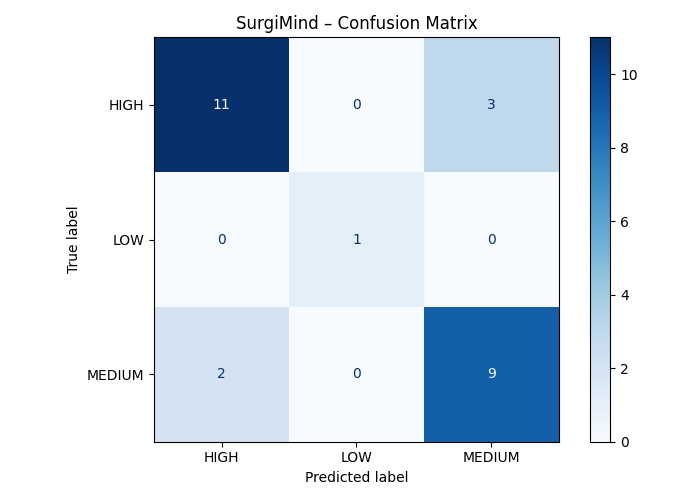
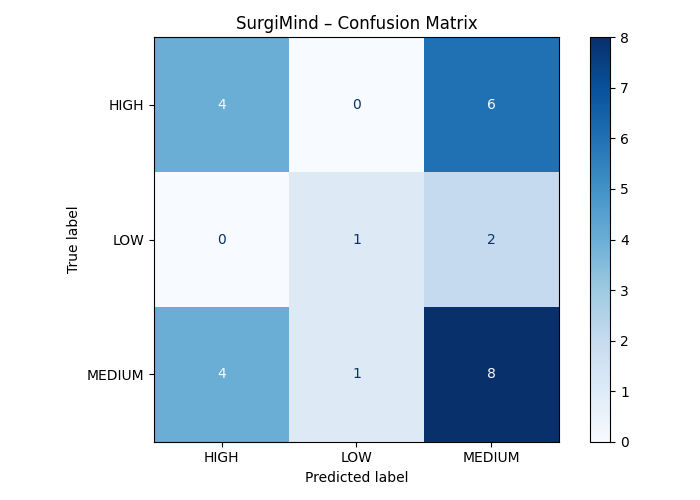
Updated code

diff --git a/frontend/app_body.py b/frontend/app_body.py
@@ -8,6 +8,18 @@ import time
 import json
 import base64
 import os
+import io
+
+from reportlab.lib.pagesizes import letter, landscape
+from reportlab.lib import colors as pdf_colors
+from reportlab.lib.styles import getSampleStyleSheet, ParagraphStyle
+from reportlab.platypus import (
+    SimpleDocTemplate,
+    Paragraph,
+    Spacer,
+    Table,
+    TableStyle
+)
 
 st.set_page_config(
     page_title="SurgiMind",
@@ -279,6 +291,22 @@ html, body, [data-testid="stAppViewContainer"] {
 ::-webkit-scrollbar { width: 6px; }
 ::-webkit-scrollbar-thumb { background: #C5D5EA; border-radius: 3px; }
 
+/* ===== Pre-op Checklist Text ===== */
+
+[data-testid="stCheckbox"] label {
+    color: #0D2B5E !important;
+    font-size: 15px !important;
+    font-weight: 600 !important;
+}
+
+[data-testid="stCheckbox"] span {
+    color: #0D2B5E !important;
+}
+
+[data-testid="stCheckbox"] input {
+    accent-color: #1CB5A3 !important;
+}
+
 /* ==========================================================
    SURGIMIND AUTH SCREEN
    ========================================================== */
@@ -399,6 +427,12 @@ html, body, [data-testid="stAppViewContainer"] {
     margin-bottom: 30px;
 }
 
+/* Force all checkbox text dark */
+[data-testid="stCheckbox"] * {
+    color: #0D2B5E !important;
+    font-weight: 600 !important;
+}
+
 </style>
 """
 
@@ -436,6 +470,99 @@ def get_base64_image(filename):
 # =============================================================================
 # HELPER FUNCTIONS
 # =============================================================================
+
+
+
+def generate_professional_pdf(report_data):
+    """Converts SurgiMind AI JSON output into a professional medical PDF."""
+    buffer = io.BytesIO()
+    doc = SimpleDocTemplate(buffer, pagesize=landscape(letter), rightMargin=50, leftMargin=50, topMargin=50, bottomMargin=50)
+    styles = getSampleStyleSheet()
+    
+    # ── SurgiMind Professional Styles ─────────────────────────────────────────
+    title_style = ParagraphStyle(
+    'Title',
+    parent=styles['Heading1'],
+    color=pdf_colors.HexColor("#0D2B5E")
+    )
+    section_style = ParagraphStyle('Section', parent=styles['Heading2'], color=pdf_colors.HexColor("#1CB5A3"), spaceBefore=15, spaceAfter=8, fontSize=14)
+    body_style = ParagraphStyle('Body', parent=styles['Normal'], fontSize=11, leading=14)
+    alert_style = ParagraphStyle('Alert', parent=styles['Normal'], color=pdf_colors.red, fontWeight='bold')
+
+    elements = []
+
+    # 1. Header: Brand and Patient Info
+    elements.append(Paragraph("SurgiMind AI: Surgical Risk Assessment", title_style))
+    elements.append(Paragraph(f"<b>Patient Name:</b> {report_data.get('patient_name', 'Unknown')}", body_style))
+    elements.append(Paragraph(f"<b>Risk Classification:</b> {report_data.get('risk_level', 'N/A')} (Confidence: {report_data.get('confidence', 'N/A')})", body_style))
+    elements.append(Spacer(1, 15))
+
+    # 2. AI Summary (The "Human Readable" part from Ollama)
+    elements.append(Paragraph("AI Clinical Summary", section_style))
+    elements.append(Paragraph(report_data.get('ai_summary', 'N/A'), body_style))
+
+    # 3. Clinical Impression
+    elements.append(Paragraph("Probable Diagnosis", section_style))
+    elements.append(Paragraph(report_data.get('probable_diagnosis', 'N/A'), body_style))
+
+    # 4. Red Flag Lab Alerts (Formatted as a Table)
+    if report_data.get('red_flags'):
+        elements.append(Paragraph("Critical Lab Red Flags", section_style))
+        # Table data: Header + rows from the red_flags list
+        data = [["Lab", "Clinical Reason", "Severity"]]
+        for rf in report_data['red_flags']:
+            data.append([
+            Paragraph(rf.get('lab', ''), body_style),
+            Paragraph(rf.get('reason', ''), body_style),
+            Paragraph(rf.get('severity', ''), body_style)
+            ])
+        
+        # Style the table using SurgiMind colors
+        t = Table(data, colWidths=[90, 320, 90])
+        t.setStyle(TableStyle([
+        ('BACKGROUND', (0,0), (-1,0), pdf_colors.HexColor("#0D2B5E")),
+        ('TEXTCOLOR', (0,0), (-1,0), pdf_colors.whitesmoke),
+
+        ('GRID', (0,0), (-1,-1), 0.5, pdf_colors.grey),
+
+        ('VALIGN', (0,0), (-1,-1), 'TOP'),
+
+        ('WORDWRAP', (0,0), (-1,-1), 'CJK'),
+
+        ('FONTSIZE', (0,0), (-1,-1), 9),
+
+        ('LEFTPADDING', (0,0), (-1,-1), 6),
+        ('RIGHTPADDING', (0,0), (-1,-1), 6),
+        ('TOPPADDING', (0,0), (-1,-1), 6),
+        ('BOTTOMPADDING', (0,0), (-1,-1), 6),
+        ]))
+        elements.append(t)
+
+    # 5. Contraindications & Surgical Options
+    if report_data.get('contraindications'):
+        elements.append(Paragraph("Contraindications", section_style))
+        for item in report_data['contraindications']:
+            elements.append(Paragraph(f"• {item}", body_style))
+
+    if report_data.get('surgical_options'):
+        elements.append(Paragraph("Surgical Recommendations", section_style))
+        for item in report_data['surgical_options']:
+            elements.append(Paragraph(f"• {item}", body_style))
+
+    # 6. Pre-Op Checklist (The checkbox list)
+    if report_data.get('preop_checklist'):
+        elements.append(Paragraph("Pre-Operative Action Checklist", section_style))
+        for item in report_data['preop_checklist']:
+            elements.append(Paragraph(f"[  ] {item}", body_style))
+
+    # 7. Footer (Model details)
+    elements.append(Spacer(1, 30))
+    footer_text = f"Report generated by {report_data.get('model_used', 'SurgiMind AI')} via {report_data.get('llm_backend_used', 'ollama')}"
+    elements.append(Paragraph(f"<font size='8' color='grey'>{footer_text}</font>", body_style))
+
+    doc.build(elements)
+    buffer.seek(0)
+    return buffer
 
 def get_risk_colors(level):
     level = level.upper()
@@ -847,7 +974,7 @@ else:
     risk     = report.get("risk_level","MEDIUM").upper()
     conf_str = report.get("confidence","N/A")
     conf_flt = confidence_to_float(conf_str)
-    colors   = get_risk_colors(risk)
+    risk_colors   = get_risk_colors(risk)
     pname    = report.get("patient_name","Patient")
     loaded_id= st.session_state.get("loaded_report_id")
 
@@ -857,17 +984,17 @@ else:
     col_gauge, col_stats = st.columns([1,2], gap="medium")
     with col_gauge:
         st.markdown(f"""
-        <div class="risk-gauge-card {colors['card']}">
+        <div class="risk-gauge-card {risk_colors['card']}">
             <div class="sm-card-title">🎯 Surgical Risk Level</div>
-            <div class="risk-level-badge {colors['badge']}">{colors['emoji']} &nbsp; {risk}</div>
-            <div class="risk-big-number {colors['big']}">{risk[0]}</div>
+            <div class="risk-level-badge {risk_colors['badge']}">{risk_colors['emoji']} &nbsp; {risk}</div>
+            <div class="risk-big-number {risk_colors['big']}">{risk[0]}</div>
             <div style="font-size:0.78rem;color:var(--text-light);margin-bottom:0.75rem;">
                 {risk.capitalize()} Risk Classification
             </div>
             <div class="confidence-row">
                 <span class="conf-label">Confidence</span>
                 <div class="conf-bar-wrap">
-                    <div class="conf-bar-fill {colors['bar']}" style="width:{conf_flt*100:.0f}%"></div>
+                    <div class="conf-bar-fill {risk_colors['bar']}" style="width:{conf_flt*100:.0f}%"></div>
                 </div>
                 <span class="conf-pct">{conf_str}</span>
             </div>
@@ -985,14 +1112,20 @@ else:
     # ── Export bar ────────────────────────────────────────────────────────────
     st.markdown("---")
     ec1,ec2,ec3,_ = st.columns([1.2,1.2,1.2,2])
-    with ec1:
-        json_data = st_export_report_json() or json.dumps(report, indent=2, default=str)
+    # Inside the "ec_pdf" column of your dashboard
+    if st.session_state.get("report"):
+        report_dict = st.session_state["report"]
+        
+        # Generate the professional PDF
+        pdf_file = generate_professional_pdf(report_dict)
+        
         st.download_button(
-            label     = "⬇️ Export JSON (DB)",
-            data      = json_data,
-            file_name = f"surgimind_{pname.replace(' ','_')}.json",
-            mime      = "application/json",
-            help      = "Downloads the report directly from the database",
+            label="📄 Download Assessment PDF",
+            data=pdf_file,
+            file_name=f"SurgiMind_Report_{report_dict.get('patient_name', 'Report')}.pdf",
+            mime="application/pdf",
+            use_container_width=True,
+            type="primary" # Blue button for prominence
         )
     with ec2:
         csv_data = db.export_all_history_csv(user_id)

diff --git a/rag_module/llm_reasoning.py b/rag_module/llm_reasoning.py
@@ -52,9 +52,9 @@ log = logging.getLogger("SurgiMind.LLM")
 logging.basicConfig(level=logging.INFO, format="[%(name)s] %(message)s")
 
 # ── Ollama config ─────────────────────────────────────────────────────────────
-OLLAMA_BASE_URL   = os.getenv("OLLAMA_BASE_URL", "http://localhost:11434")
-OLLAMA_MODEL      = os.getenv("OLLAMA_MODEL", "qwen2.5:3b")   # or "mistral"
-OLLAMA_TIMEOUT    = 120    # seconds – LLM generation can take a moment
+OLLAMA_BASE_URL   = "http://localhost:11434"
+OLLAMA_MODEL      = "qwen2.5:1.5b"  # <--- REMOVED os.getenv to stop phi3 from loading
+OLLAMA_TIMEOUT    = 300    # seconds – LLM generation can take a moment
 
 # ── Groq fallback config ──────────────────────────────────────────────────────
 GROQ_API_KEY      = os.getenv("GROQ_API_KEY", "")

diff --git a/services/feature_engineering.py b/services/feature_engineering.py
@@ -52,8 +52,8 @@ from utils.helpers import log
 # Modify here only if your dataset changes substantially.
 # =============================================================================
 
-DEFAULT_HIGH_THRESHOLD   = 50   # score >= this  →  HIGH
-DEFAULT_MEDIUM_THRESHOLD = 25   # score >= this  →  MEDIUM  (else LOW)
+DEFAULT_HIGH_THRESHOLD   = 65   # score >= this  →  HIGH
+DEFAULT_MEDIUM_THRESHOLD = 35   # score >= this  →  MEDIUM  (else LOW)
 
 
 # =============================================================================